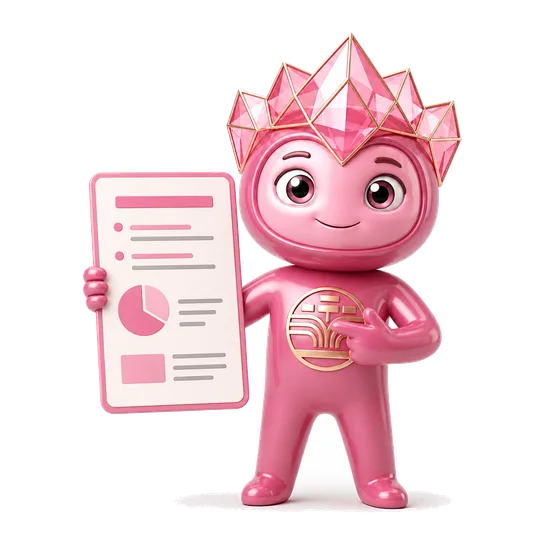
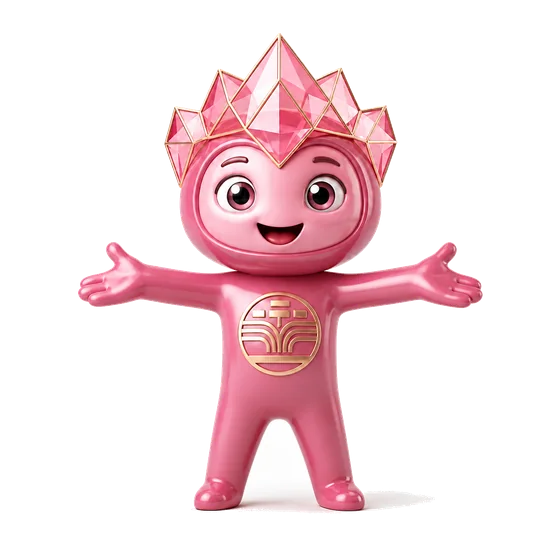
thrid commit

diff --git a/css/style.css b/css/style.css
@@ -100,22 +100,29 @@ html[lang="en"] .eyebrow { text-transform: uppercase; letter-spacing: .08em; fon
 .btn-primary:hover { transform: translateY(-3px); box-shadow: var(--shadow); }
 .btn-ghost { background: transparent; color: var(--ink); border: 1.5px solid var(--border-strong); }
 .btn-ghost:hover { border-color: var(--accent-solid); color: var(--accent); }
+.btn:active { transform: scale(.96); }
 
 /* ============ Header ============ */
 .site-header { position: sticky; top: 0; z-index: 100; background: color-mix(in srgb, var(--bg) 86%, transparent); backdrop-filter: blur(14px); border-bottom: 1px solid var(--border); }
 .header-inner { display: flex; align-items: center; gap: 20px; padding-block: 14px; }
-.brand { display: flex; align-items: center; }
-.brand-logo { height: 42px; width: auto; filter: drop-shadow(0 4px 10px rgba(232,160,37,.25)); }
-.brand-logo.dark { display: none; }
-:root[data-theme="dark"] .brand-logo.light { display: none; }
-:root[data-theme="dark"] .brand-logo.dark { display: block; }
-@media (prefers-color-scheme: dark) {
-  :root:not([data-theme="light"]) .brand-logo.light { display: none; }
-  :root:not([data-theme="light"]) .brand-logo.dark { display: block; }
-}
+/* A single gems-only mark (no wordmark text baked in) works unchanged on
+   both themes, so the header no longer needs a light/dark image swap --
+   that swap is what silently broke: the full logo's white/navy background
+   removal missed the dark variant's actual background color, so it kept
+   rendering as an opaque square in dark mode. The full icon+wordmark lockup
+   is still used at hero/footer size, where the wordmark is actually legible. */
+.brand { display: flex; align-items: center; gap: 10px; }
+.brand-logo { height: 34px; width: auto; filter: drop-shadow(0 4px 10px rgba(232,160,37,.3)); }
+.brand-name { font-family: var(--font-display); font-weight: 800; font-size: 1.15rem; color: var(--ink); }
 .main-nav { display: flex; align-items: center; gap: 28px; margin-inline-start: 12px; flex: 1; }
-.main-nav a { font-size: .95rem; font-weight: 600; color: var(--ink-soft); }
+.main-nav a { position: relative; font-size: .95rem; font-weight: 600; color: var(--ink-soft); padding-block: 4px; }
+.main-nav a::after {
+  content: ""; position: absolute; inset-inline: 0; bottom: -2px; height: 2px; border-radius: 2px;
+  background: var(--accent-solid); transform: scaleX(0); transform-origin: center;
+  transition: transform .25s cubic-bezier(.2,.8,.2,1);
+}
 .main-nav a:hover { color: var(--ink); }
+.main-nav a:hover::after { transform: scaleX(1); }
 .header-actions { display: flex; align-items: center; gap: 10px; }
 .pill-btn { border: 1.5px solid var(--border-strong); border-radius: 999px; padding: 8px 16px; font-weight: 700; font-size: .85rem; display: flex; align-items: center; gap: 6px; }
 .pill-btn:hover { border-color: var(--accent-solid); color: var(--accent); }
@@ -131,7 +138,16 @@ html[lang="en"] .eyebrow { text-transform: uppercase; letter-spacing: .08em; fon
 @media (max-width: 900px) { .main-nav { display: none; } .header-actions .cta-btn { display: none; } }
 
 /* ============ Hero ============ */
-.hero { padding-block: 64px 40px; overflow: hidden; }
+.hero { padding-block: 64px 40px; overflow: hidden; position: relative; }
+.hero::before, .hero::after {
+  content: ""; position: absolute; z-index: -1; width: 46vw; height: 46vw; max-width: 520px; max-height: 520px;
+  border-radius: 50%; filter: blur(90px); opacity: .28; pointer-events: none;
+  animation: drift 22s ease-in-out infinite alternate;
+}
+.hero::before { top: -10%; inset-inline-start: -8%; background: var(--c-sada); }
+.hero::after { bottom: -18%; inset-inline-end: -10%; background: var(--c-fahes); animation-delay: -9s; }
+@keyframes drift { 0% { transform: translate(0,0) scale(1); } 100% { transform: translate(6%, 8%) scale(1.12); } }
+@media (prefers-reduced-motion: reduce) { .hero::before, .hero::after { animation: none; } }
 .hero-inner { display: flex; flex-direction: column; align-items: center; text-align: center; gap: 28px; max-width: 780px; margin-inline: auto; }
 .hero-brandmark { width: 96px; height: auto; margin-bottom: -8px; filter: drop-shadow(0 10px 26px rgba(232,160,37,.3)); animation: brandmark-pulse 4s ease-in-out infinite; }
 @keyframes brandmark-pulse { 0%,100% { transform: scale(1); } 50% { transform: scale(1.04); } }
@@ -259,8 +275,14 @@ html[dir="rtl"] .steps::before { background: repeating-linear-gradient(to left, 
 .waitlist-box { max-width: 640px; margin-inline: auto; text-align: center; background: var(--surface); border: 1px solid var(--border); border-radius: var(--radius); padding: 48px 32px; box-shadow: var(--shadow-sm); }
 .waitlist-box h2 { font-size: clamp(1.5rem, 1.1rem + 1.6vw, 2.1rem); margin-bottom: 12px; }
 .waitlist-box > p { color: var(--ink-soft); margin-bottom: 26px; }
-.waitlist-form { display: flex; gap: 10px; flex-wrap: wrap; justify-content: center; }
-.waitlist-form input { flex: 1; min-width: 220px; padding: 14px 18px; border-radius: 999px; border: 1.5px solid var(--border-strong); background: var(--surface-2); color: var(--ink); }
+.waitlist-form { display: grid; grid-template-columns: 1fr 1fr; gap: 10px; }
+.waitlist-form input {
+  padding: 14px 18px; border-radius: 999px; border: 1.5px solid var(--border-strong);
+  background: var(--surface-2); color: var(--ink); transition: border-color .2s ease, box-shadow .2s ease;
+}
+.waitlist-form input:focus { border-color: var(--accent-solid); box-shadow: 0 0 0 4px color-mix(in srgb, var(--accent-solid) 18%, transparent); outline: none; }
+.waitlist-form .btn { grid-column: 1 / -1; }
+@media (max-width: 560px) { .waitlist-form { grid-template-columns: 1fr; } }
 .waitlist-note { margin-top: 14px; font-size: .78rem; color: var(--ink-faint); }
 .waitlist-success { display: none; align-items: center; justify-content: center; gap: 8px; font-weight: 700; color: #2F8F4E; margin-top: 14px; }
 .waitlist-success.active { display: flex; }

diff --git a/ar/index.html b/ar/index.html
@@ -65,8 +65,8 @@
 <header class="site-header">
   <div class="wrap header-inner">
     <a class="brand" href="#top" aria-label="براق">
-      <img class="brand-logo light" src="../assets/logo/logo-on-light.webp" alt="براق" width="120" height="34">
-      <img class="brand-logo dark" src="../assets/logo/logo-on-dark.webp" alt="براق" width="120" height="34">
+      <img class="brand-logo" src="../assets/logo/icon-only.webp" alt="" width="34" height="34">
+      <span class="brand-name">براق</span>
     </a>
     <nav class="main-nav" aria-label="التنقل الرئيسي">
       <a href="#characters">الشخصيات</a>
@@ -152,6 +152,7 @@
         <div class="char-card reveal" data-char="khota" tabindex="0">
           <div class="char-figure">
             <img class="base" src="../assets/characters/khota/full.webp" alt="خُطى" width="200" height="200" loading="lazy">
+            <img class="alt" src="../assets/characters/khota/alt.webp" alt="" width="200" height="200" loading="lazy">
           </div>
           <div class="char-name">خُطى <span>· Khota</span></div>
           <div class="char-role">التخطيط الدراسي</div>
@@ -161,6 +162,7 @@
         <div class="char-card reveal" data-char="rasheed" tabindex="0">
           <div class="char-figure">
             <img class="base" src="../assets/characters/rasheed/full.webp" alt="رشيد" width="200" height="200" loading="lazy">
+            <img class="alt" src="../assets/characters/rasheed/alt.webp" alt="" width="200" height="200" loading="lazy">
           </div>
           <div class="char-name">رشيد <span>· Rasheed</span></div>
           <div class="char-role">تحليل الأداء والتوصيات</div>
@@ -270,8 +272,8 @@
         <p>نوثّق تقدمنا بصدق، بما في ذلك ما لم يكتمل بعد، لأننا نؤمن أن الشفافية تصنع منتجًا أفضل وأكثر موثوقية على المدى الطويل.</p>
       </div>
       <div class="team-list reveal">
-        <div class="team-item"><div class="team-avatar" style="background:var(--c-sada)">إم</div><div><div class="team-name">Ibrahim</div><div class="team-role">الذكاء الاصطناعي</div></div></div>
-        <div class="team-item"><div class="team-avatar" style="background:var(--c-khota)">مع</div><div><div class="team-name">Muath</div><div class="team-role">تطبيق الجوال والاختبار</div></div></div>
+        <div class="team-item"><div class="team-avatar" style="background:var(--c-sada)">إم</div><div><div class="team-name">Ibrahim</div><div class="team-role">الذكاء الاصطناعي وتطبيق الجوال</div></div></div>
+        <div class="team-item"><div class="team-avatar" style="background:var(--c-khota)">مع</div><div><div class="team-name">Muath</div><div class="team-role">اختبار الجودة</div></div></div>
         <div class="team-item"><div class="team-avatar" style="background:var(--c-rasheed)">عب</div><div><div class="team-name">Abdulrahman</div><div class="team-role">لوحة التحكم</div></div></div>
       </div>
     </div>
@@ -285,6 +287,8 @@
         <h2>كن أول من يجرّب براق</h2>
         <p>اترك بريدك الإلكتروني وسنُعلمك فور فتح التجربة الأولى.</p>
         <form class="waitlist-form" id="waitlistForm">
+          <label class="sr-only" for="waitlistName">الاسم</label>
+          <input type="text" id="waitlistName" required placeholder="اسمك الكامل" autocomplete="name">
           <label class="sr-only" for="waitlistEmail">البريد الإلكتروني</label>
           <input type="email" id="waitlistEmail" required placeholder="you@example.com" autocomplete="email">
           <span class="sr-only" aria-hidden="true">

diff --git a/en/index.html b/en/index.html
@@ -65,8 +65,8 @@
 <header class="site-header">
   <div class="wrap header-inner">
     <a class="brand" href="#top" aria-label="Baraq">
-      <img class="brand-logo light" src="../assets/logo/logo-on-light.webp" alt="Baraq" width="120" height="34">
-      <img class="brand-logo dark" src="../assets/logo/logo-on-dark.webp" alt="Baraq" width="120" height="34">
+      <img class="brand-logo" src="../assets/logo/icon-only.webp" alt="" width="34" height="34">
+      <span class="brand-name">Baraq</span>
     </a>
     <nav class="main-nav" aria-label="Primary">
       <a href="#characters">Characters</a>
@@ -152,6 +152,7 @@
         <div class="char-card reveal" data-char="khota" tabindex="0">
           <div class="char-figure">
             <img class="base" src="../assets/characters/khota/full.webp" alt="Khota" width="200" height="200" loading="lazy">
+            <img class="alt" src="../assets/characters/khota/alt.webp" alt="" width="200" height="200" loading="lazy">
           </div>
           <div class="char-name">Khota <span>· خُطى</span></div>
           <div class="char-role">Study planning</div>
@@ -161,6 +162,7 @@
         <div class="char-card reveal" data-char="rasheed" tabindex="0">
           <div class="char-figure">
             <img class="base" src="../assets/characters/rasheed/full.webp" alt="Rasheed" width="200" height="200" loading="lazy">
+            <img class="alt" src="../assets/characters/rasheed/alt.webp" alt="" width="200" height="200" loading="lazy">
           </div>
           <div class="char-name">Rasheed <span>· رشيد</span></div>
           <div class="char-role">Performance analysis</div>
@@ -270,8 +272,8 @@
         <p>We document our progress honestly, including what isn't finished yet — because we believe transparency builds a better, more trustworthy product over time.</p>
       </div>
       <div class="team-list reveal">
-        <div class="team-item"><div class="team-avatar" style="background:var(--c-sada)">IB</div><div><div class="team-name">Ibrahim</div><div class="team-role">AI engineering</div></div></div>
-        <div class="team-item"><div class="team-avatar" style="background:var(--c-khota)">MU</div><div><div class="team-name">Muath</div><div class="team-role">Mobile app &amp; QA</div></div></div>
+        <div class="team-item"><div class="team-avatar" style="background:var(--c-sada)">IB</div><div><div class="team-name">Ibrahim</div><div class="team-role">AI &amp; Mobile Engineering</div></div></div>
+        <div class="team-item"><div class="team-avatar" style="background:var(--c-khota)">MU</div><div><div class="team-name">Muath</div><div class="team-role">QA &amp; Testing</div></div></div>
         <div class="team-item"><div class="team-avatar" style="background:var(--c-rasheed)">AB</div><div><div class="team-name">Abdulrahman</div><div class="team-role">Admin dashboard</div></div></div>
       </div>
     </div>
@@ -285,6 +287,8 @@
         <h2>Be the first to try Baraq</h2>
         <p>Leave your email and we'll notify you the moment early access opens.</p>
         <form class="waitlist-form" id="waitlistForm">
+          <label class="sr-only" for="waitlistName">Name</label>
+          <input type="text" id="waitlistName" required placeholder="Your full name" autocomplete="name">
           <label class="sr-only" for="waitlistEmail">Email</label>
           <input type="email" id="waitlistEmail" required placeholder="you@example.com" autocomplete="email">
           <span class="sr-only" aria-hidden="true">

diff --git a/js/main.js b/js/main.js
@@ -135,17 +135,31 @@
 
   // ---------- Waitlist counter (social proof) ----------
   var countEl = document.getElementById("waitlistCount");
+  function labelFor(n) {
+    return lang === "ar"
+      ? (n === 1 ? "شخص واحد بالفعل بالقائمة" : n + " شخصاً بالفعل بالقائمة")
+      : n + (n === 1 ? " person" : " people") + " already on the list";
+  }
   function renderCount(n) {
     if (!countEl) return;
-    if (n > 0) {
-      var label = lang === "ar"
-        ? (n === 1 ? "شخص واحد بالفعل بالقائمة" : n + " شخصاً بالفعل بالقائمة")
-        : n + (n === 1 ? " person" : " people") + " already on the list";
-      countEl.textContent = label;
-      countEl.hidden = false;
-    } else {
-      countEl.hidden = true;
+    if (n <= 0) { countEl.hidden = true; return; }
+    countEl.hidden = false;
+    var previous = Number(countEl.dataset.count) || 0;
+    countEl.dataset.count = String(n);
+    if (reduceMotion || previous === n) {
+      countEl.textContent = labelFor(n);
+      return;
     }
+    var start = performance.now();
+    var duration = 700;
+    function tick(now) {
+      var progress = Math.min(1, (now - start) / duration);
+      var eased = 1 - Math.pow(1 - progress, 3);
+      var current = Math.round(previous + (n - previous) * eased);
+      countEl.textContent = labelFor(current);
+      if (progress < 1) requestAnimationFrame(tick);
+    }
+    requestAnimationFrame(tick);
   }
   if (countEl && config.API_BASE_URL) {
     fetch(config.API_BASE_URL + "/waitlist/count/", { headers: { Accept: "application/json" } })
@@ -159,6 +173,7 @@
   if (form) {
     form.addEventListener("submit", function (e) {
       e.preventDefault();
+      var nameInput = document.getElementById("waitlistName");
       var emailInput = document.getElementById("waitlistEmail");
       var honeypot = document.getElementById("waitlistCompany");
       var submitBtn = form.querySelector("button[type=submit]");
@@ -179,6 +194,7 @@
         headers: { "Content-Type": "application/json", Accept: "application/json" },
         body: JSON.stringify({
           email: emailInput.value.trim(),
+          full_name: nameInput ? nameInput.value.trim() : "",
           locale: lang,
           company: honeypot ? honeypot.value : ""
         })

diff --git a/README.md b/README.md
@@ -14,19 +14,19 @@ index.html          Thin client-side redirector -> /ar/ or /en/ by browser
                      crawlers and no-JS visitors still reach real content.
 ar/index.html        Canonical Arabic page (RTL).
 en/index.html        Canonical English page (LTR).
-css/style.css        Shared stylesheet (design tokens + components).
-js/main.js           Shared script: theme toggle, scroll-reveal, the
-                      "which character are you" quiz, the waitlist demo form.
+css/style.css        Shared stylesheet (design tokens + components + 3D tilt).
+js/config.js         The one thing to edit when the backend domain changes.
+js/main.js           Loading screen, theme toggle, scroll-reveal, pseudo-3D
+                      pointer tilt, the "which character are you" quiz, and
+                      the real waitlist form (calls the Django backend).
 assets/characters/   Optimized WebP character art (see "Asset sourcing").
-assets/logo/         Logo + generated favicons.
+assets/logo/         Logo marks + generated favicons.
 robots.txt, sitemap.xml
 ```
 
 Two real pages (not a client-side language toggle over one page) so each
 language is independently crawlable and indexable, with reciprocal
-`hreflang` tags — this was an explicit follow-up recommendation from the
-first version of this site (a single-file prototype published as a Claude
-Artifact) once real SEO mattered, not just a demo.
+`hreflang` tags.
 
 ## Asset sourcing — real content, not placeholders
 
@@ -37,65 +37,109 @@ material, not invented:
   Fahes `#2E7FBE`, Khota `#A6392A`, Rasheed `#2F7A3B`, Sada `#623793`,
   Kholasa `#B23A5C`, plus the logo's gold star as the shared accent
   `#E8A025`. Dark-mode variants are lightened versions of the same hues.
-- **Character art** — sourced from `Baraq-App/src/assets/characters/*`,
-  the same PNGs the mobile app ships. Several "pose" filenames in that
-  folder are byte-identical to `_full` (confirmed via MD5 — a pre-existing
-  asset gap, not something this site introduced); only `fahes` (`happy`),
-  `sada` (`happy`), and `kholasa` (`summary`) had a genuinely distinct second
-  pose, so only those three character cards do a hover image-swap. `khota`
-  and `rasheed` show one pose with a hover lift/glow instead of a fake swap
-  — ask the design team for real alternate poses if that swap matters later.
-- **Logo** — `Baraq-App/src/assets/logos/logo_baraq_{light,dark,icon}.png`.
-- **Team names/roles, copy, quiz questions** — carried over verbatim from
-  the first Artifact version of this site (which itself was built from the
-  account's feature form, technical assessment, and readiness spec).
+- **Character art** — sourced from the top-level `image/<character>/` folder
+  (Arabic-named subfolders), NOT `Baraq-App/src/assets/characters/*`. Both
+  folders look similar, but the mobile app's copy has several pose filenames
+  that are byte-identical to `_full` (confirmed via MD5) — a pre-existing
+  asset-pipeline gap in that app, not something worth propagating here. The
+  top-level `image/` folder has genuinely distinct art for every pose, so
+  all five characters (not just three) now do a real hover pose-swap
+  (calm -> happy), each processed with alpha-transparency background removal.
+- **Logo** — `image/logo_baraq_{light,dark,icon}.png` (identical content to
+  the `Baraq-App` copies, confirmed via MD5, except `logo_baraq_dark.png`
+  differs byte-for-byte between the two folders though both render the same
+  visually -- just different PNG re-encodes).
+- **Team names/roles, copy, quiz questions** — carried over from the first
+  Artifact version of this site, then revised per direct instructions (see
+  "Positioning" below) and corrected for Ibrahim's/Muath's actual roles.
+
+### Header logo bug (found + fixed)
+
+The header originally swapped between two full icon+wordmark images
+(`logo-on-light.webp` for light backgrounds, `logo-on-dark.webp` for dark)
+based on the theme. Two real bugs made this look broken:
+
+1. **The dark-background flood-fill used the wrong target color** (the
+   page's CSS `--bg` value instead of the logo PNG's actual background
+   pixel color), so `logo-on-dark.webp` never actually had its background
+   removed — it rendered as a faint opaque square in dark mode.
+2. Even fixed, the *wordmark text* inside either image is illegible at a
+   34–42px header height (the full lockup is a tall icon-over-text square,
+   so the text portion renders at a few px tall).
+
+Fix: the header now uses a separate **icon-only crop** (`icon-only.webp`,
+gems with no text, auto-cropped from the transparent gap between the gem
+cluster and the wordmark) next to a plain `<span>براق</span>` text label —
+one asset, no theme-dependent swap, and the brand name is actually
+readable. The full icon+wordmark lockup (`assets/logo/wordmark.webp`) is
+still used at hero size, where the text is large enough to read, with a
+gentle pulse animation.
 
 ### Re-generating the optimized image assets
 
-The source PNGs are ~1.2–1.9MB each (1254×1254, several with a near-white
+The source PNGs are ~1.2–1.9MB each (1254×1254, white or near-navy
 background needing removal). This repo ships only the processed output
-(`assets/characters/*/{full,alt}.webp`, ~20–35KB each; `assets/logo/*.webp`
-+ generated favicon PNGs) — regenerate them from the source assets with
-Pillow if the source art changes:
+(`assets/characters/*/{full,alt}.webp`, ~20–40KB each; `assets/logo/*.webp`
++ generated favicon PNGs) — regenerate them from `image/<character>/*.png`
+with Pillow if the source art changes (BFS flood-fill from the four
+corners using the image's *actual* background color, not an assumed one —
+see the bug above for why that distinction matters; then resize + save as
+WebP).
 
-```python
-# flood-fills a near-white background transparent (BFS from the four
-# corners, so it doesn't eat white pixels *inside* the character, like
-# eyes), then resizes to a sane display size and saves as WebP.
-# See git history of this README for the exact script used.
-```
+## Waitlist: real backend, not a demo
 
-## Positioning: pre-launch, on purpose
+The waitlist form posts to the Django backend's `apps/waitlist` app
+(`Baraaq_back/backend/apps/waitlist/`) — real Postgres storage, not a
+`.xlsx` file written directly by the request (concurrent writes to a
+shared spreadsheet aren't safe under multiple gunicorn workers). It
+collects **name + email**, and exposes a live subscriber count the site
+displays as an animated social-proof counter.
+
+**Exporting to Excel**: Django admin -> Waitlist entries -> select rows (or
+"select all") -> action "Export selected as Excel" -> downloads a
+formatted `.xlsx` (bold header row, frozen top row, filter dropdowns,
+sized columns) with Name / Email / Locale / Source / Joined At. This is
+the "professional Excel export" deliverable, layered on top of the real
+database rather than replacing it.
+
+`js/config.js` holds the one thing that needs to match the deployed
+backend: `API_BASE_URL`. The backend also needs this site's own origin
+added to `CORS_ALLOWED_ORIGINS` / `CSRF_TRUSTED_ORIGINS` (see
+`Baraaq_back/backend/.env.example`) — without that, the browser blocks the
+response even though the request itself reaches Django fine.
+
+If the backend is unreachable (not deployed yet, CORS misconfigured, ...)
+the form shows a friendly inline error instead of a fake "success", and the
+counter just stays hidden instead of showing a stale/zero number.
+
+## Positioning: pre-launch, startup-backed, on purpose
 
 The project's own readiness review (4 Sep 2026) put it at 60–80% ready
 depending on the section, with an explicit no-go for any public launch.
 So this site deliberately has no fake "download now" buttons or invented
-user counts — it's a honest "in development, join the waitlist" page, and
+user counts — it's an honest "in development, join the waitlist" page, and
 says so in a small transparency badge in the About section.
 
-**The waitlist form does not save anything yet.** It only shows a success
-message locally (see `js/main.js`, `waitlistForm` handler). Wire it to a
-real service (Google Forms, Mailchimp, a simple serverless endpoint, etc.)
-before sharing this URL publicly — and add a real privacy policy first,
-since the target audience includes minors (high-school students, 14–18).
+Positioning language is "a startup backed by the Innovation Youth Team" (not
+"a volunteer initiative") — applied consistently in the hero eyebrow, the
+About paragraph, the footer, and the JSON-LD `publisher` name across both
+languages, not just one spot.
 
 ## Before a real public launch — priority order
 
-1. **Wire the waitlist form** to an actual email/CRM service.
-2. **Add a real privacy policy** page/link (minors in the audience — this
+1. **Add a real privacy policy** page/link (minors in the audience — this
    was flagged by the readiness spec itself, not just this README).
-3. **Update the "in development" badge** in the About section as the
+2. **Update the "in development" badge** in the About section as the
    platform's real readiness percentage changes.
-4. Re-generate character art from real transparent-PNG sources if the
-   design team provides them, instead of the flood-fill cleanup used here.
-5. Consider: a live build-progress badge tied to real internal reports; a
+3. Consider: a live build-progress badge tied to real internal reports; a
    real short Sada voice-to-text mini demo in-browser; a dynamic OG-image
    generator per quiz result; a small parents/schools explainer page.
 
 ## Performance
 
 No external JS libraries, no bundler. Total page weight (HTML+CSS+JS+all
-images) is well under 500KB per language, versus ~2.3MB for the original
-single-file artifact version (which embedded every image as base64).
+images) is roughly 1.2MB including the full-resolution wordmark and every
+character's two poses — still far below the ~2.3MB original single-file
+artifact version (which embedded every image as base64, at lower quality).
 Google Fonts is the only external dependency (two font families,
 `font-display: swap`, preconnected).
